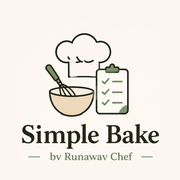
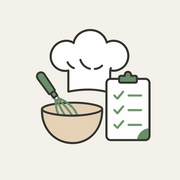
Add files via upload

diff --git a/sw.js b/sw.js
@@ -1,4 +1,4 @@
-const CACHE_NAME = 'runwaychef-public-cache-v246';
+const CACHE_NAME = 'runwaychef-public-cache-v247';
 const ASSETS = [
   './index.html',
   './i18n.js',